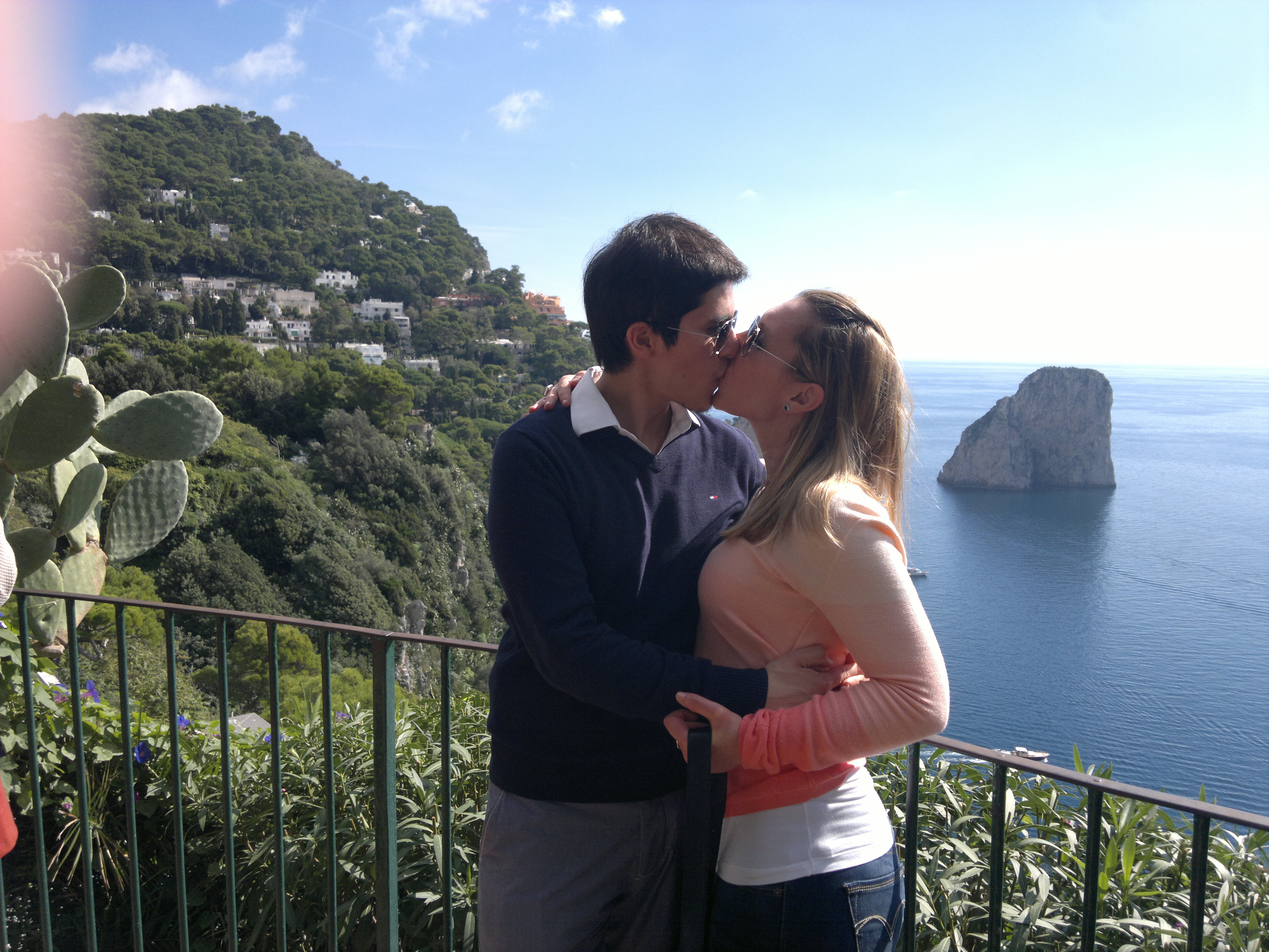
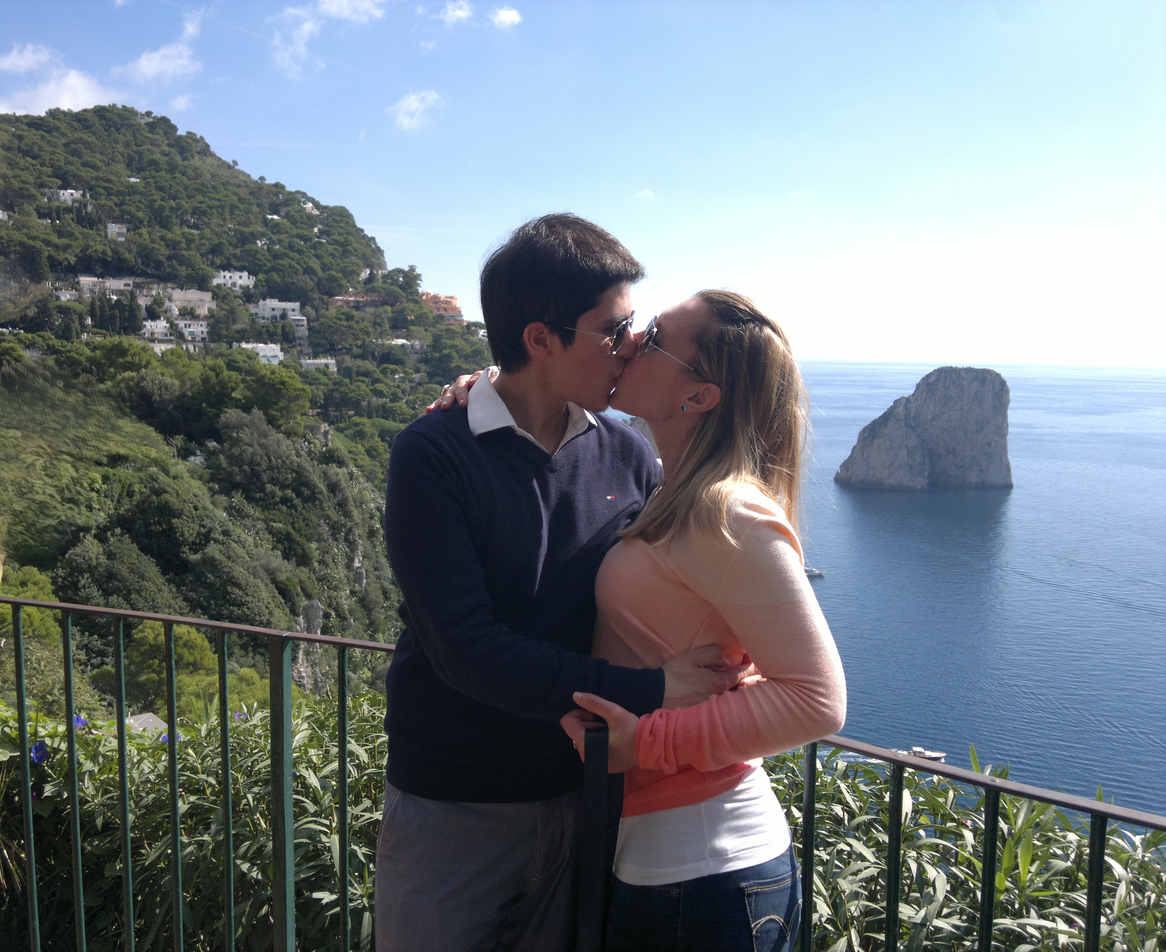
'update'

diff --git a/src/pages/Home.tsx b/src/pages/Home.tsx
@@ -14,11 +14,15 @@ import foto2 from "../assets/capri.jpg";
 import welcomeImgTablet from "../assets/welcome-img-tablet.png";
 import welcomeImgDesktop from "../assets/welcome-img-desktop.png";
 import { useState } from "react";
-import Couple from "../assets/icons/couple/Couple";
+import Couple from "../assets/icons/Couple";
 import cs from "../audio/champagne Supernova.mp3";
 import Player from "../components/player/Player";
 import Modal from "../components/modal/Modal";
 // import data from '../data/data.json'
+import timelineMobile from '../assets/timeline-mobile.png'
+// import timelineTablet from '../assets/timeline-tablet.png'
+import timelineDesktop from '../assets/timeline-desktop.png'
+import Timeline from "../components/timeline/Timeline";
 
 const Home = () => {
   const [welcomeScreen, setWelcomeScreen] = useState<boolean>(true);
@@ -27,13 +31,26 @@ const Home = () => {
   const [showModal, setShowModal] = useState<boolean>(false);
   const [isMap, setIsMap] = useState<boolean>(true);
 
-  // setTimeout(() => {
-  //   setLoader(false);
-  // }, 6000);
+  setTimeout(() => {
+    setLoader(false);
+  }, 6000);
 
   return (
     <Box>
       {welcomeScreen && !loader && (
+        <Hero
+          xsImg={welcomeImgTablet}
+          mdImg={welcomeImgTablet}
+          lgImg={welcomeImgDesktop}
+          welcomeScreen
+          showBtn
+          onClick={() => {
+            setWelcomeScreen(false), setLoader(true);
+          }}
+        />
+      )}
+
+      {loader && (
         <Grid container>
           <Grid
             size={12}
@@ -42,32 +59,8 @@ const Home = () => {
             justifyContent={"center"}
             alignItems={"center"}
           >
-            <Couple onClick={() => setWelcomeScreen(false)}/>
-          </Grid>
-        </Grid>
-        // <Hero
-        //   xsImg={welcomeImgTablet}
-        //   mdImg={welcomeImgTablet}
-        //   lgImg={welcomeImgDesktop}
-        //   welcomeScreen
-        //   showBtn
-        //   onClick={() => {
-        //     setWelcomeScreen(false), setLoader(true);
-        //   }}
-        // />
-      )}
-
-      {loader && (
-        <Grid container>
-          {/* <Grid
-            size={12}
-            height={"100vh"}
-            display={"flex"}
-            justifyContent={"center"}
-            alignItems={"center"}
-          >
             <Couple />
-          </Grid> */}
+          </Grid>
         </Grid>
       )}
       {!loader && !welcomeScreen && (
@@ -77,6 +70,7 @@ const Home = () => {
             <Modal
               isMap={isMap}
               src={location}
+              icon={gift}
               onClick={() => {
                 setShowModal(false), setLocation(""), setIsMap(true);
               }}
@@ -101,6 +95,7 @@ const Home = () => {
                 showBtn
                 btnText="Ver mapa"
                 btnClassname="btn-date"
+                showIcon
                 icon={gift}
                 onClick={() => {
                   setShowModal(true), setLocation("registroCivil");
@@ -110,6 +105,7 @@ const Home = () => {
             <Grid size={12}>
               <Carousel arrayImg={pictures} />
             </Grid>
+           
             <Grid size={12}>
               <Phrase phrase="Cuando menos lo esperas, una buena persona llega a tu vida para mejorarlo todo." />
             </Grid>
@@ -123,6 +119,7 @@ const Home = () => {
                 showBtn
                 btnText="Ver mapa"
                 btnClassname="btn-outline "
+                showIcon
                 icon={gift}
                 onClick={() => {
                   setShowModal(true), setLocation("ilSorpasso");
@@ -131,6 +128,9 @@ const Home = () => {
             </Grid>
             <Grid size={12}>
               <Carousel arrayImg={pictures} />
+            </Grid>
+             <Grid size={12}>
+              <Timeline timelineMobile={timelineMobile}  timelineDesktop={timelineDesktop}/>
             </Grid>
             <Grid size={12}>
               <Phrase phrase="Cause all of the stars are fading away, just try not to worry. You'll see them someday" />
@@ -145,6 +145,7 @@ const Home = () => {
                 showBtn
                 btnText="Ver alias"
                 btnClassname="btn-outline"
+                showIcon
                 icon={gift}
                 onClick={() => {
                   setShowModal(true), setIsMap(false);
@@ -156,6 +157,9 @@ const Home = () => {
             </Grid>
             <Grid size={12}>
               <Form />
+            </Grid>
+            <Grid size={12}>
+              <Info mainText="¿Dress code?" subtext="Elegante sport" description="El color BLANCO solo es para la novia! Por favor evitar este color. Gracias"  className="info-container-green" bgc="#e8efe7" showIcon icon={gift} />
             </Grid>
           </Grid>
         </>

diff --git a/src/components/info/Info.tsx b/src/components/info/Info.tsx
@@ -6,30 +6,34 @@ type Props = {
   mainText: string;
   subtext: string;
   description: string;
-  icon: string
-  btnText: string,
-  showBtn: boolean,
+  icon?: string
+  btnText?: string,
+  showIcon: boolean,
+  showBtn?: boolean,
   className: string;
   btnClassname?: string;
   onClick?: () => void
 };
 
 const Info = (props: Props) => {
-  const { bgc, mainText, subtext, description, btnText, showBtn, className, btnClassname, icon, onClick } = props;
+  const { bgc, mainText, subtext, description, btnText, showBtn, className, btnClassname, showIcon, icon, onClick } = props;
   
   return (
     <Box className={"info-section"} data-aos='fade-up' data-aos-duration='400' sx={{ background: bgc, backgroundRepeat: {xs: 'no-repeat', md: 'repeat-x'}, backgroundSize: {xs: 'cover', sm: 'cover', md: 'contain', backgroundPosition: 'center'}, height: {xs: '430px', sm: '400px', md: '450px'}}}>
       
       <Box className={`info-container ${className}`} data-aos='fade-up' data-aos-duration='400' sx={{backgroundSize: {xs: '80%', sm: '60%', md: '25%'}, backgroundRepeat: 'repeat-x', backgroundPosition: 'bottom'}}>
         <Typography variant="h1" fontWeight={'400'} >{mainText}</Typography>
-        <ImageList sx={{width: '100px', m: '10px auto', display: 'flex'}}>
-          <ImageListItem data-aos='fade'>
-            <img
-              src={icon}
-              alt="icon"
-            />
-          </ImageListItem>
-        </ImageList>
+        {showIcon && (
+          <ImageList sx={{width: '100px', m: '10px auto', display: 'flex'}}>
+            <ImageListItem data-aos='fade'>
+              <img
+                src={icon}
+                alt="icon"
+              />
+            </ImageListItem>
+          </ImageList>
+        )}
+        
         <Typography variant="h1" fontWeight={'400'}  data-aos='fade'>{subtext}</Typography>
         <Typography variant="h2" fontWeight={'400'} fontSize={{xs: '18px', md: '24px'}} data-aos='fade'>{description}</Typography>
         {showBtn && <Button className={`btn ${btnClassname}`} data-aos='fade' onClick={onClick}> {btnText}</Button>}

diff --git a/src/components/modal/Modal.tsx b/src/components/modal/Modal.tsx
@@ -5,7 +5,7 @@ import data from "../../data/data.json";
 type Props = {
   // [key:string]:any,
   onClick: () => void;
-  src: string;
+  src?: string;
   isMap: boolean;
   icon?: string;
 };
@@ -25,12 +25,13 @@ const Modal = (props: Props) => {
             component={"iframe"}
             // src={`${data.locations[src].address}`}
             src={`${data.locations.registroCivil.address}`} //CAMBIAR PARA QUE SEA DINAMICO
+            alignItems={src}//ESTA LINEA NO VA, ES SOLO PARA QUE NO TIRE ERROR !!!!
             sx={{ border: "0", width: "100%", height: "100%" }}
             loading="lazy"
             referrerPolicy="no-referrer-when-downgrade"
           ></Box>
         ) : (
-          <Box className="alias-section">
+          <Box className="alias-section" >
             <Box className="alias-container">
               <Typography variant="h1">¿Regalo?</Typography>
               <ImageList
@@ -41,7 +42,7 @@ const Modal = (props: Props) => {
                 </ImageListItem>
               </ImageList>
               <Typography variant="h2">
-               ¡¡Nuestro mejor regalo es tu presencia en el momento más importante de nuestras vidas!! Aún así, si deseás contribuir para cumplir nuestro sueño, te dejamos nuestro alias.
+               ¡¡El mejor regalo es tu presencia en el día más importante de nuestras vidas!! Aún así, si deseás contribuir para cumplir nuestro sueño, te dejamos nuestro alias.
               </Typography>
               <Box>
                 <Typography variant="h1">Alias</Typography>

diff --git a/src/components/timeline/Timeline.tsx b/src/components/timeline/Timeline.tsx
@@ -1,0 +1,31 @@
+import { Box } from "@mui/material";
+
+type Props = {
+  timelineMobile: string;
+  // timelineTablet: string;
+  timelineDesktop: string;
+};
+
+const Timeline = (props: Props) => {
+  const { timelineMobile, timelineDesktop } = props;
+
+  return (
+    <Box
+      sx={{
+        background: {
+          xs: `url(${timelineMobile}) #faf6ec`,
+          // sm: `url(${timelineTablet})`,
+          lg: `url(${timelineDesktop}) #faf6ec`,
+          
+        },
+        backgroundSize:  {xs: 'contain', lg: 'contain'},
+        backgroundRepeat: {xs: 'no-repeat', lg: 'no-repeat'},
+        backgroundPosition: {xs: 'center', lg: 'center'},
+        height: "100vh",
+
+      }}
+    ></Box>
+  );
+};
+
+export default Timeline;

diff --git a/src/components/hero/Hero.tsx b/src/components/hero/Hero.tsx
@@ -21,7 +21,7 @@ const Hero = (props: Props) => {
         background: { xs: `url(${xsImg})`, sm: `url(${mdImg})`, md: `url(${lgImg})`, lg: `url(${lgImg})` },
         backgroundRepeat: {xs: 'no-repeat', sm: 'no-repeat', lg: 'no-repeat'},
         backgroundSize: { xs: "cover", sm: 'cover', md: "cover", lg: 'cover' },
-        backgroundPosition: { xs: "center", sm: welcomeScreen ? 'top' : 'center', md: "center", lg: '0 -150px' },
+        backgroundPosition: { xs: "center", sm: welcomeScreen ? 'top' : 'center', md: "center", lg: welcomeScreen ? '0 -150px' : '0 -220px' },
         filter: { md: "grayscale(1)"}, //SE QUEDA DEPENDIENDO DE LA IMAGEN QUE SE ELIJA
 
       }}

diff --git a/src/components/timer/Timer.tsx b/src/components/timer/Timer.tsx
@@ -10,7 +10,7 @@ const Timer = () => {
   }
 
   return (
-    <Box className={"timer-section"} >
+    <Box className={"timer-section"} data-aos='fade-up' mt={'30px'}>
       <Box className='timer-maru-pablo' data-aos='fade-up' width={{xs: '95%', sm: '70%', md: '80%', lg: '65%'}} p={{xs: '50px 0', md: '50px'}}>
         <Box display={"flex"} flexDirection={{xs: 'column', md: 'row'}} justifyContent={{md: 'center'}} alignItems={{md: 'center'}} data-aos='fade-up'>
         {['Maru', '&', 'Pablo'].map((name, index) => (

diff --git a/src/assets/icons/Couple.tsx b/src/assets/icons/Couple.tsx
@@ -1,0 +1,14 @@
+import { Player } from "@lottiefiles/react-lottie-player";
+import couple from "./Couple Walk.json";
+import { Box } from "@mui/material";
+
+const Couple = () => {
+  return (
+    <Box  >
+      <Player src={couple} autoplay loop/>
+    </Box>
+  )
+  
+};
+
+export default Couple;

diff --git a/src/components/modal/Modal.css b/src/components/modal/Modal.css
@@ -34,7 +34,7 @@
   background: #537364;
   height: 100%;
   width: 100%;
-  padding: 30px;
+  padding: 20px;
 }
 
 .alias-container {
